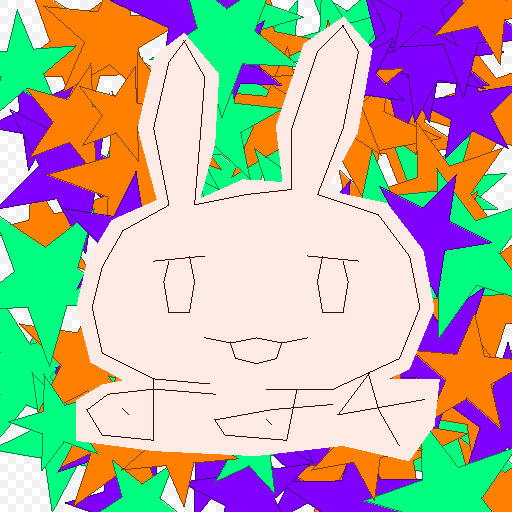
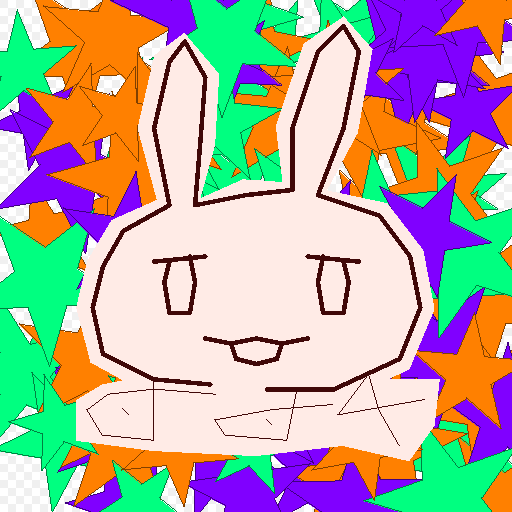
implement draw_path

diff --git a/src/main.rs b/src/main.rs
@@ -90,6 +90,38 @@ fn draw_line(img: &mut ImageBuffer<image::Rgb<u8>, Vec<u8>>, mut p1: (f64, f64),
     }
 }
 
+fn draw_path(img: &mut ImageBuffer<image::Rgb<u8>, Vec<u8>>, ps: &[(f64, f64)], pixel: image::Rgb<u8>) {
+    for y in 0..img.height() {
+        for x in 0..img.width() {
+            for pair in ps.windows(2) {
+                if distance_between_line_segment_and_point(&pair[0], &pair[1], &(x as f64, y as f64)) < 5.0 {
+                    img.put_pixel(x, y, pixel);
+                }
+            }
+        }
+    }
+}
+
+fn distance_between_line_and_point(p1: (f64, f64), p2: (f64, f64), p0: (f64, f64)) -> f64 {
+    ((p2.1 - p1.1) * p0.0 - (p2.0 - p1.0) * p0.1 + p2.0 * p1.1 - p2.1 * p1.0).abs() / (p2.1 - p1.1).hypot(p2.0 - p1.0)
+}
+
+fn distance_between_line_segment_and_point(p1: &(f64, f64), p2: &(f64, f64), p0: &(f64, f64)) -> f64 {
+    let a = p2.0 - p1.0;
+    let b = p2.1 - p1.1;
+    let a2 = a.powi(2);
+    let b2 = b.powi(2);
+    let r2 = a2 + b2;
+    let tt = -(a * (p1.0 - p0.0) + b * (p1.1 - p0.1));
+    if tt < 0.0 {
+        (p1.0 - p0.0).powi(2) + (p1.1 - p0.1).powi(2)
+    } else if tt > r2 {
+        (p2.0 - p0.0).powi(2) + (p2.1 - p0.1).powi(2)
+    } else {
+        (a * (p1.1 - p0.1) - b * (p1.0 - p0.0)).powi(2) / r2
+    }
+}
+
 fn draw_fill(img: &mut ImageBuffer<image::Rgb<u8>, Vec<u8>>, ps: &[(f64, f64)], pixel: image::Rgb<u8>) {
     for y in 0..img.height() {
         let mut vec = ps.windows(2).filter_map(|pair| intersection_(pair[0].0, pair[0].1, pair[1].0, pair[1].1, y as f64)).collect::<Vec<f64>>();
@@ -252,6 +284,7 @@ fn draw_nanachi(img: &mut ImageBuffer<image::Rgb<u8>, Vec<u8>>) {
         for s in ps.windows(2) {
             draw_line(img, s[0], s[1], image::Rgb([64, 8, 8]));
         }
+        draw_path(img, ps, image::Rgb([64, 8, 8]));
     }
 
     for ps in moji.iter() {
